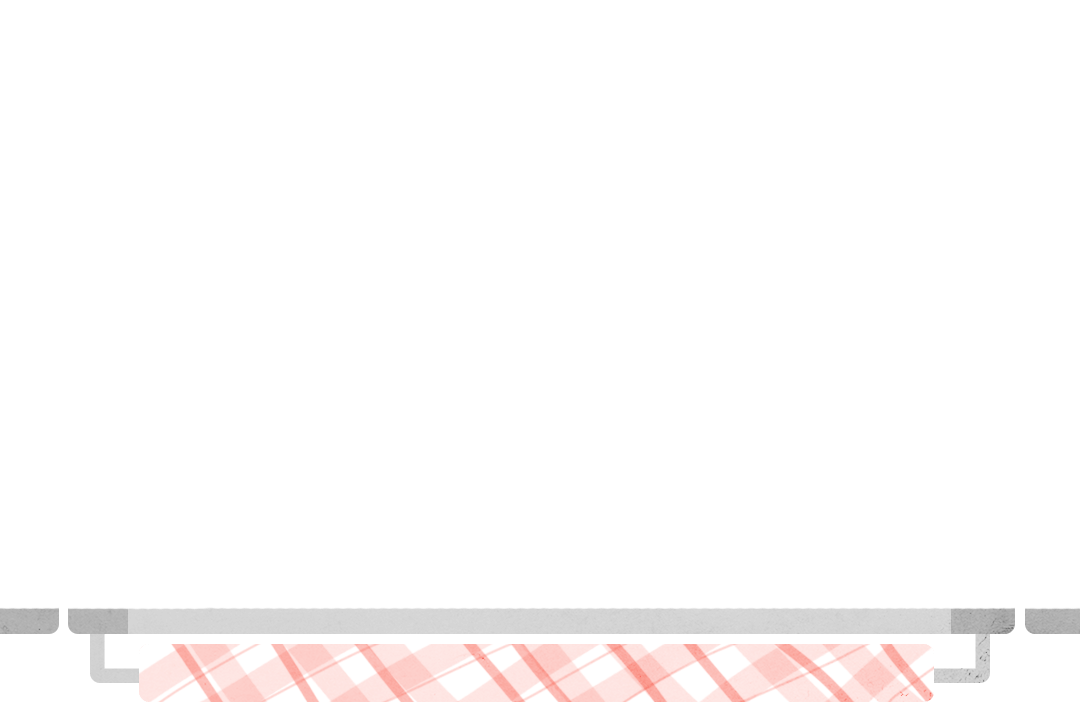
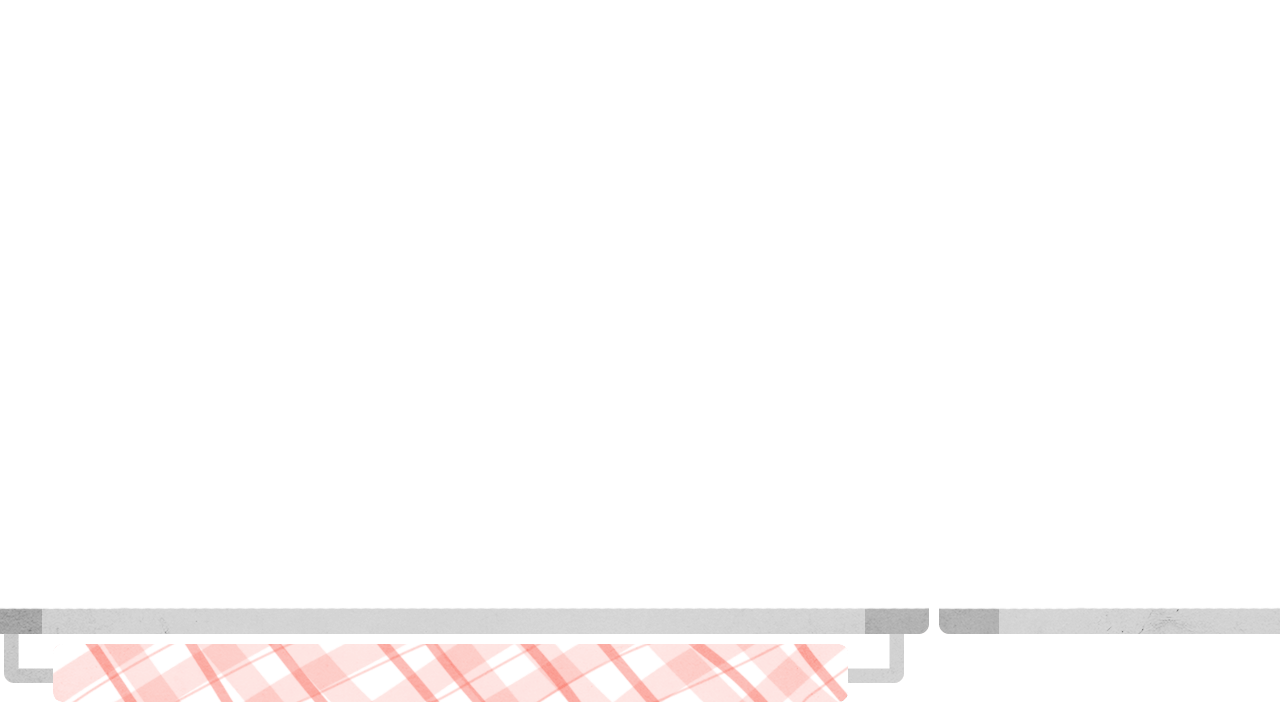
new background

Changed region(s): [[0.0, 0.825, 1.0, 0.9778]]

diff --git a/public/index.html b/public/index.html
@@ -44,7 +44,7 @@
           <li>Coût: 19<span class="player-cash-currency"></span></li>
         </ul>
       </div>
-      <div class="tower" data-tower="master-tower">
+      <div class="tower disable" data-tower="master-tower">
         <img src="/assets/images/chef.png" class="tower-icon">
         <h3>Chef</h3>
         <ul>

diff --git a/src/game/Game.js b/src/game/Game.js
@@ -41,7 +41,7 @@ class Game {
   }
 
   start() {
-    this.populateEnemies();
+    // this.populateEnemies();
 
     this.update();
   }
